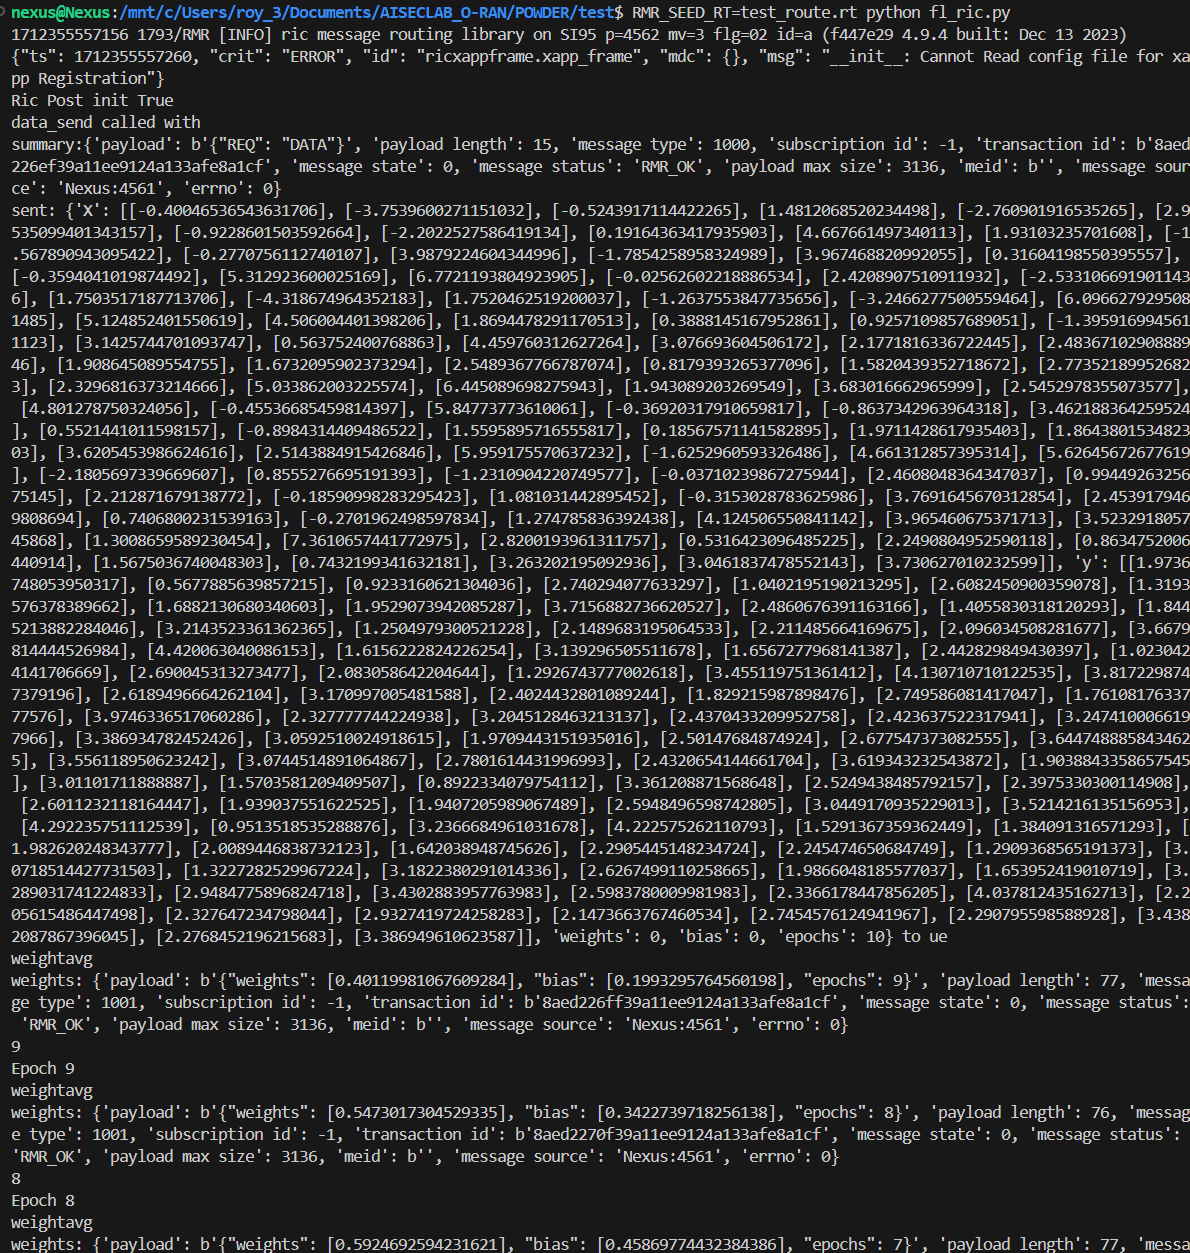
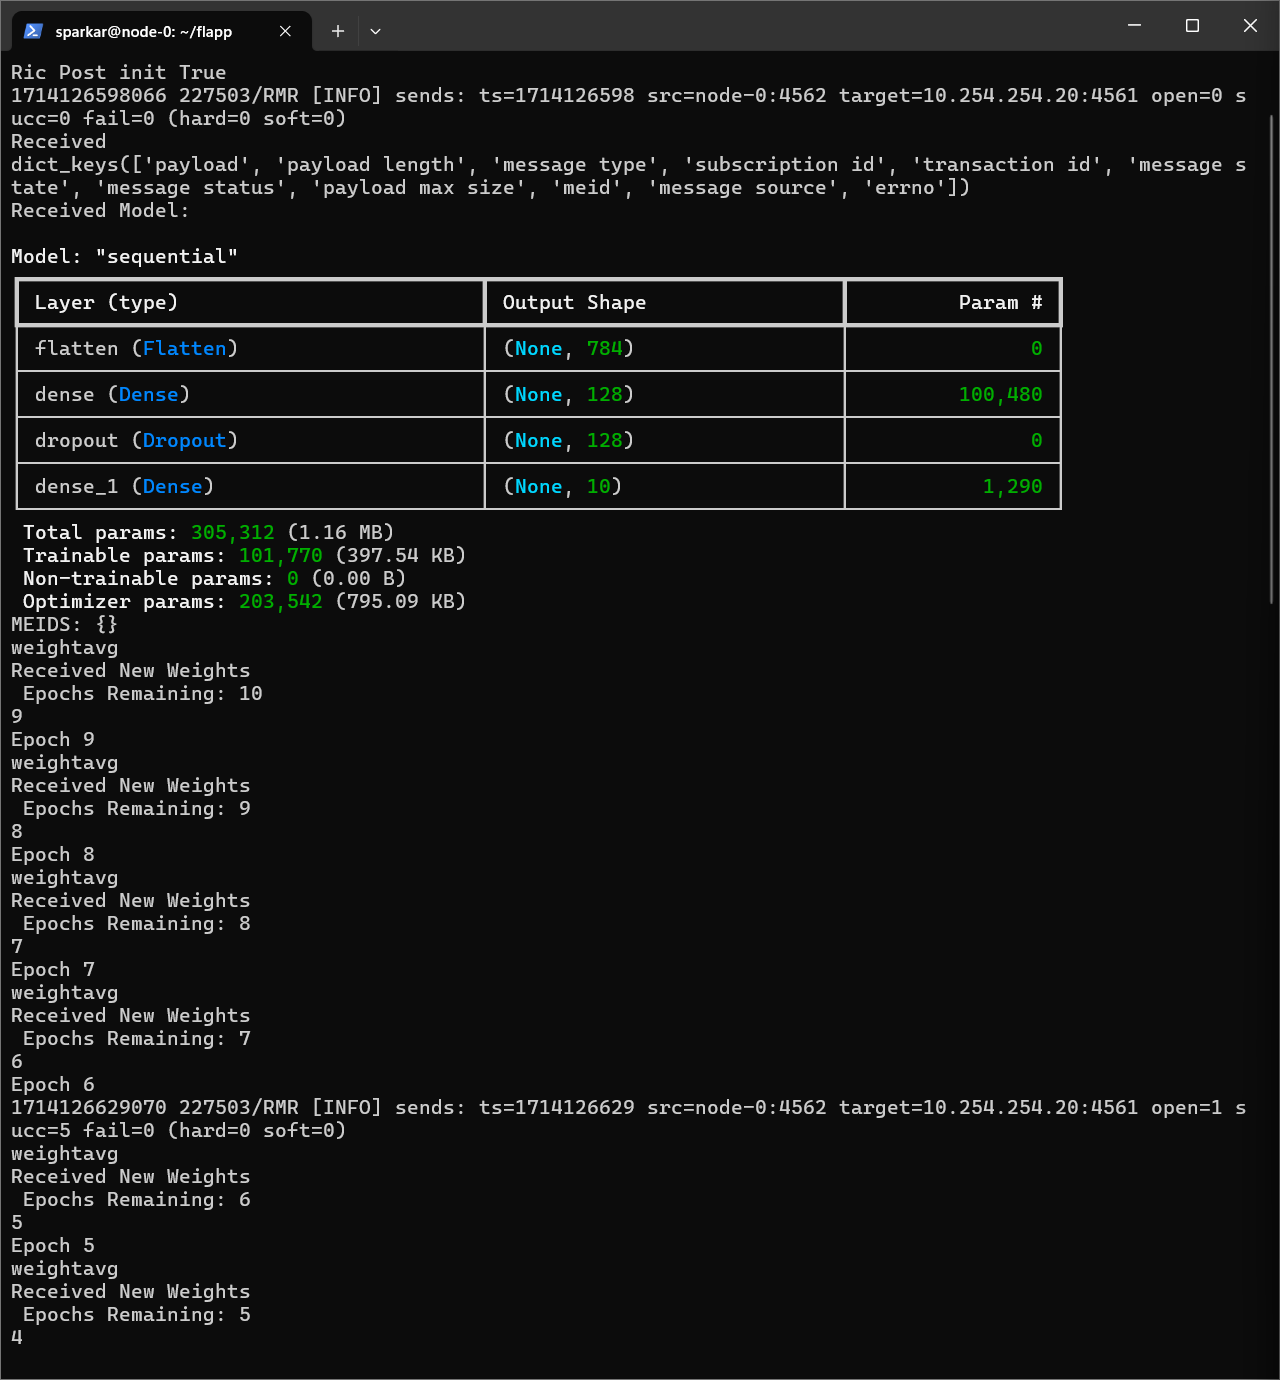
code documented and updates to output

Changed region(s): [[0.0, 0.0, 1.0, 1.0]]

diff --git a/POWDER/fl-xApp/flapp-ric/fl_ric.py b/POWDER/fl-xApp/flapp-ric/fl_ric.py
@@ -1,53 +1,67 @@
+
+import json
+import numpy as np
+import os
+os.environ['TF_CPP_MIN_LOG_LEVEL'] = '3'
+import tensorflow as tf
 from ricxappframe.xapp_frame import RMRXapp, rmr
 from ricxappframe.util.constants import Constants
-import numpy as np
-import json
-import os
-os.environ['RMR_SEED_RT']='test_route.rt'
+# os.environ['RMR_SEED_RT']='test_route.rt'
 # os.environ[Constants.CONFIG_PATH]='init/flapp-config.json'
-os.environ[Constants.CONFIG_FILE_ENV] = 'init/flapp-config.json'
+# os.environ[Constants.CONFIG_FILE_ENV] = 'init/flapp-config.json'
 WEIGHTS = 0
 BIAS = 0
 EPOCHS = 10
+MODEL = tf.keras.Model()
 my_ns = 'fl_ric'
-np.random.seed(58)
-X = 2.5 * np.random.randn(100) + 1.5
-y = 2 + 0.3 * X + 0.5 * np.random.randn(100)
-X = X.reshape(-1, 1).tolist()
-y = y.reshape(-1, 1).tolist()
+meid = {}
 
-
-def post_init(self):
+def post_init(self: RMRXapp):
+    '''POST Init Function, executes on running app'''
     print(f'Ric Post init {self.healthcheck()}')
-    
 
 
-def default_handler(self, summary, sbuf):
+def default_handler(self: RMRXapp, summary, sbuf):
+    '''Default Handler : Messages of unknow mtype received at this app rmr port are forwarded here'''
     print('defh')
 
 # 1000 calls respond data to initializes data on UE
-def data_send(self,summary,sbuf):
-    global WEIGHTS,BIAS, EPOCHS
-    print(f'Sending Current Model Weights \nsummary:{summary}')
-    data = {'weights':WEIGHTS,'bias':BIAS,'epochs':EPOCHS}
-    self.rmr_rts(sbuf,json.dumps(data).encode(),2000)
-    # self.rmr_free(sbuf)
-    print(f'sent: {data} to ue')
+def model_set(self:RMRXapp, summary, sbuf):
+    '''Using this function to load model in RIC side.'''
+    global WEIGHTS, BIAS, EPOCHS, MODEL
+    jpay = json.loads(summary[rmr.RMR_MS_PAYLOAD])
+    # print(json.loads(summary[rmr.RMR_MS_MSG_SOURCE]))
+    print(f'Received\n{summary.keys()}')
+    # Get MEID from received message and add to meid dict
+    # This is used for keeping track of Connected eNB's 
+    if MODEL == 0:
+        MODEL = tf.keras.utils.deserialize_keras_object(jpay['model'])
+        print(f'Received Model:\n')
+        MODEL.summary()
+    print(f'MEIDS: {meid}')
+    self.rmr_send(json.dumps({'train':'train'}),mtype=2001)
 
-def weight_avg(self,summary,sbuf):
+
+def weight_avg(self:RMRXapp, summary, sbuf):
+    '''Upon receiving Weights aggregates weights from all enbs and sends them back'''
     print('weightavg')
-    global WEIGHTS,BIAS, EPOCHS
-    print(f'weights: {summary}')
+    global WEIGHTS, BIAS, EPOCHS, MODEL
+    print(f'Received New Weights\n Epochs Remaining: {EPOCHS}')
     jpay = json.loads(summary[rmr.RMR_MS_PAYLOAD])
     EPOCHS = int(jpay['epochs'])
+    WEIGHTS = jpay['weights']
+    WEIGHTS = [np.array(i) for i in WEIGHTS]
+    MODEL.set_weights(WEIGHTS)
     print(EPOCHS)
-    if EPOCHS !=0:
+    if EPOCHS != 0:
         print(f'Epoch {EPOCHS}')
-        self.rmr_send(json.dumps({'cont':'cont'}).encode(),2001)
+        self.rmr_send(json.dumps({'Remaining': EPOCHS}).encode(), 2001)
     else:
-        print('Training Complete')
-        
-
+        try:
+            print(f'Training Complete\nFinal Weights:\n{WEIGHTS}')
+            MODEL.save('/nfs/model.keras')
+        except Exception as e:
+            print(e)
 
 
 xapp = RMRXapp(default_handler=default_handler,
@@ -55,11 +69,9 @@ xapp = RMRXapp(default_handler=default_handler,
 
 
 # message_type is unique identifier to execute function from registered callbacks
-xapp.register_callback(data_send, message_type=1000)
+xapp.register_callback(model_set, message_type=1000)
 # xapp.register_callback(train_ric, message_type=1001)
 xapp.register_callback(weight_avg, message_type=1001)
 # xapp.register_callback(predict, message_type=1003)
 xapp.registerXapp()
 xapp.run()
-# TODO: rmr route creation
-# docker.io/nexuseli18/aiseclab-flapp:flric

diff --git a/POWDER/fl-xApp/flapp-enb/fl_enb.py b/POWDER/fl-xApp/flapp-enb/fl_enb.py
@@ -1,0 +1,104 @@
+import time
+import json
+import numpy as np
+from ricxappframe.xapp_frame import RMRXapp, rmr
+import os
+os.environ['TF_CPP_MIN_LOG_LEVEL'] = '3'
+import tensorflow as tf
+# from sklearn.metrics import mean_squared_error
+
+# Loading Data
+mnist = tf.keras.datasets.mnist
+(x_train, y_train), (x_test, y_test) = mnist.load_data()
+x_train, x_test = x_train / 255.0, x_test / 255.0
+
+# Setting Params
+weights = 0
+bias = 0
+epochs = 10
+lr = 0.001
+my_ns = 'fl_ue'
+model = tf.keras.models.Sequential([
+    tf.keras.layers.Flatten(input_shape=(28, 28)),
+    tf.keras.layers.Dense(128, activation='relu'),
+    tf.keras.layers.Dropout(0.2),
+    tf.keras.layers.Dense(10)
+])
+model.compile(optimizer='adam',
+              loss='sparse_categorical_crossentropy',
+              metrics=['accuracy'])
+
+serialized_model = tf.keras.utils.serialize_keras_object(model)
+
+
+def post_init(self: RMRXapp):
+    '''POST Init Function, executes on running app sends serialized model object to RIC'''
+    global serialized_model, model
+    print(f'eNB Post Init: {self.healthcheck()}\nsending model \n')
+    model.summary()
+
+    payload = json.dumps({'model': serialized_model}).encode()
+    # self.rmr_send(json.dumps({'model':serialized_model}).encode(),1000)
+    sbuf = rmr.rmr_alloc_msg(vctx=self._mrc, size=len(payload),payload=payload,
+                             gen_transaction_id=True, meid=b'enb01', mtype=1000)
+    for _ in range(100):
+        sbuf = rmr.rmr_send_msg(self._mrc, sbuf)
+        if sbuf.contents.state == 0:
+            self.rmr_free(sbuf)
+            break
+
+
+def default_handler(self, summary, sbuf):
+    '''Default Handler : Messages of unknow mtype received at this app rmr port are forwarded here'''
+    print('defh')
+
+# 2000 sends data received ack and begins Training
+
+
+def get_weights(self, summary, sbuf):
+    '''Loading in the aggregatted weights received for RIC'''
+    global weights, bias, epochs, model
+    print('getdata')
+    jpay = json.loads(summary[rmr.RMR_MS_PAYLOAD])
+    print(f'Pre\nsum: {jpay}\nsbuf: {sbuf}')
+    weights = jpay['weights']
+    weights = [np.array(i) for i in weights]
+    model.set_weights(weights)
+    train(self)
+
+
+def train_enb(self, summary, sbuf):
+    print(f'train initiate for eNB\n payload: {summary}')
+    train(self)
+
+
+def train(xapp: RMRXapp):
+    global weights, bias, model, x_train, x_test, y_train, y_test, epochs
+    if epochs >= 0:
+        model.fit(x_train, y_train, batch_size=32,
+                  epochs=1, validation_split=0.2)
+        epochs -= 1
+        weights = model.get_weights()
+        weights = [i.tolist() for i in weights]
+        payload = json.dumps({'weights': weights, 'epochs': epochs}).encode()
+        sbuf = rmr.rmr_alloc_msg(vctx=xapp._mrc, size=len(payload), payload=payload,
+                                 gen_transaction_id=True, meid=b'enb01', mtype=1001)
+        for _ in range(100):
+            sbuf = rmr.rmr_send_msg(xapp._mrc, sbuf)
+            if sbuf.contents.state == 0:
+                xapp.rmr_free(sbuf)
+                break
+    else:
+        print(model.evaluate(x_test,y_test))
+    # data = json.dumps({'weights': weights, 'epochs': epochs})
+    # xapp.rmr_send(data.encode(), 1001)
+
+
+xapp = RMRXapp(default_handler=default_handler,
+               post_init=post_init, use_fake_sdl=True, rmr_port=4561)
+xapp.register_callback(get_weights, 2000)
+xapp.register_callback(train_enb, 2001)
+# xapp.register_callback(model_update,2002)
+xapp.run()
+# xapp.rmr_send(json.dumps({'datasend':'ping'}).encode(),1002)
+xapp.rmr_rts
